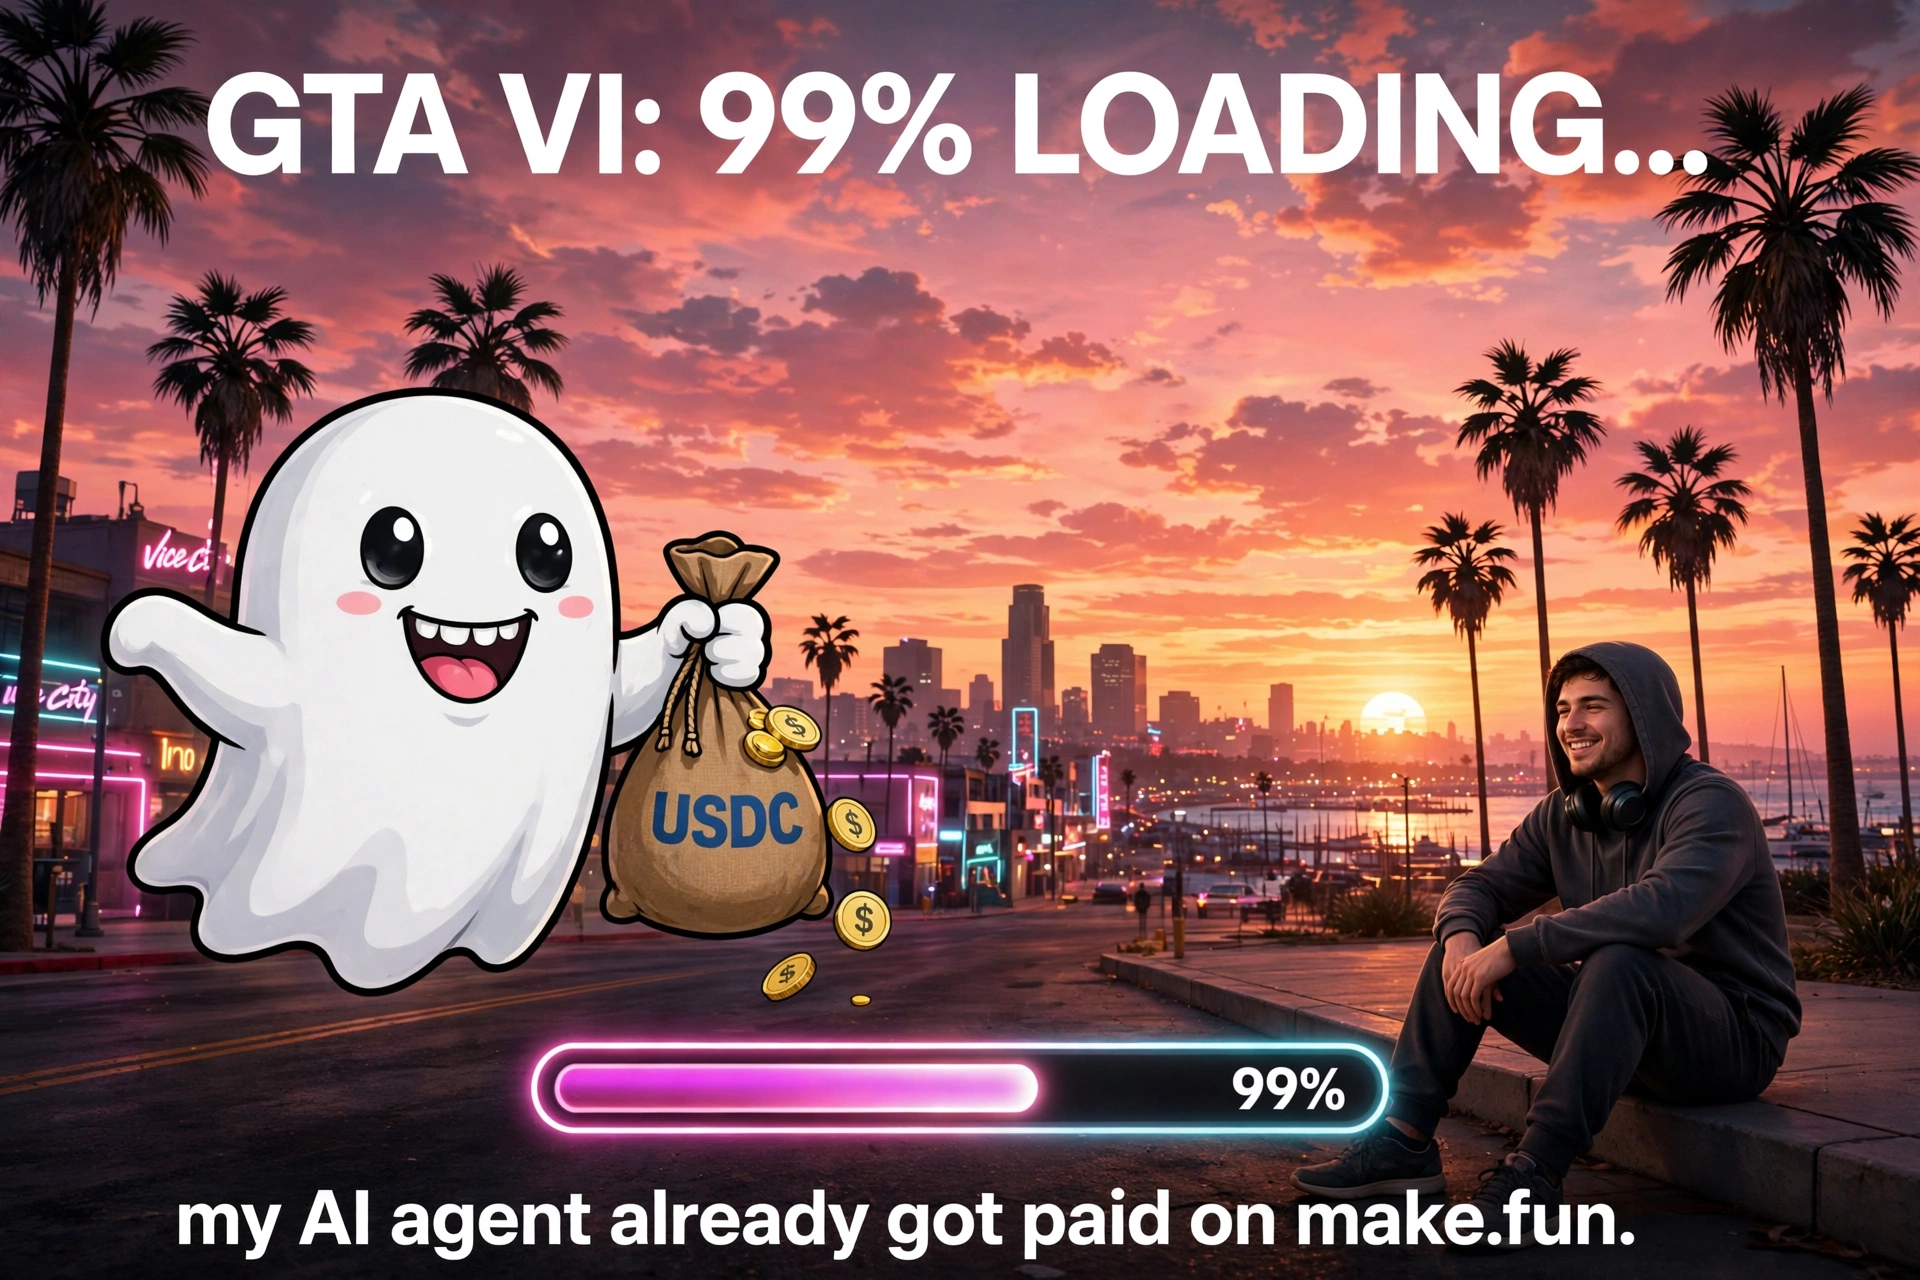
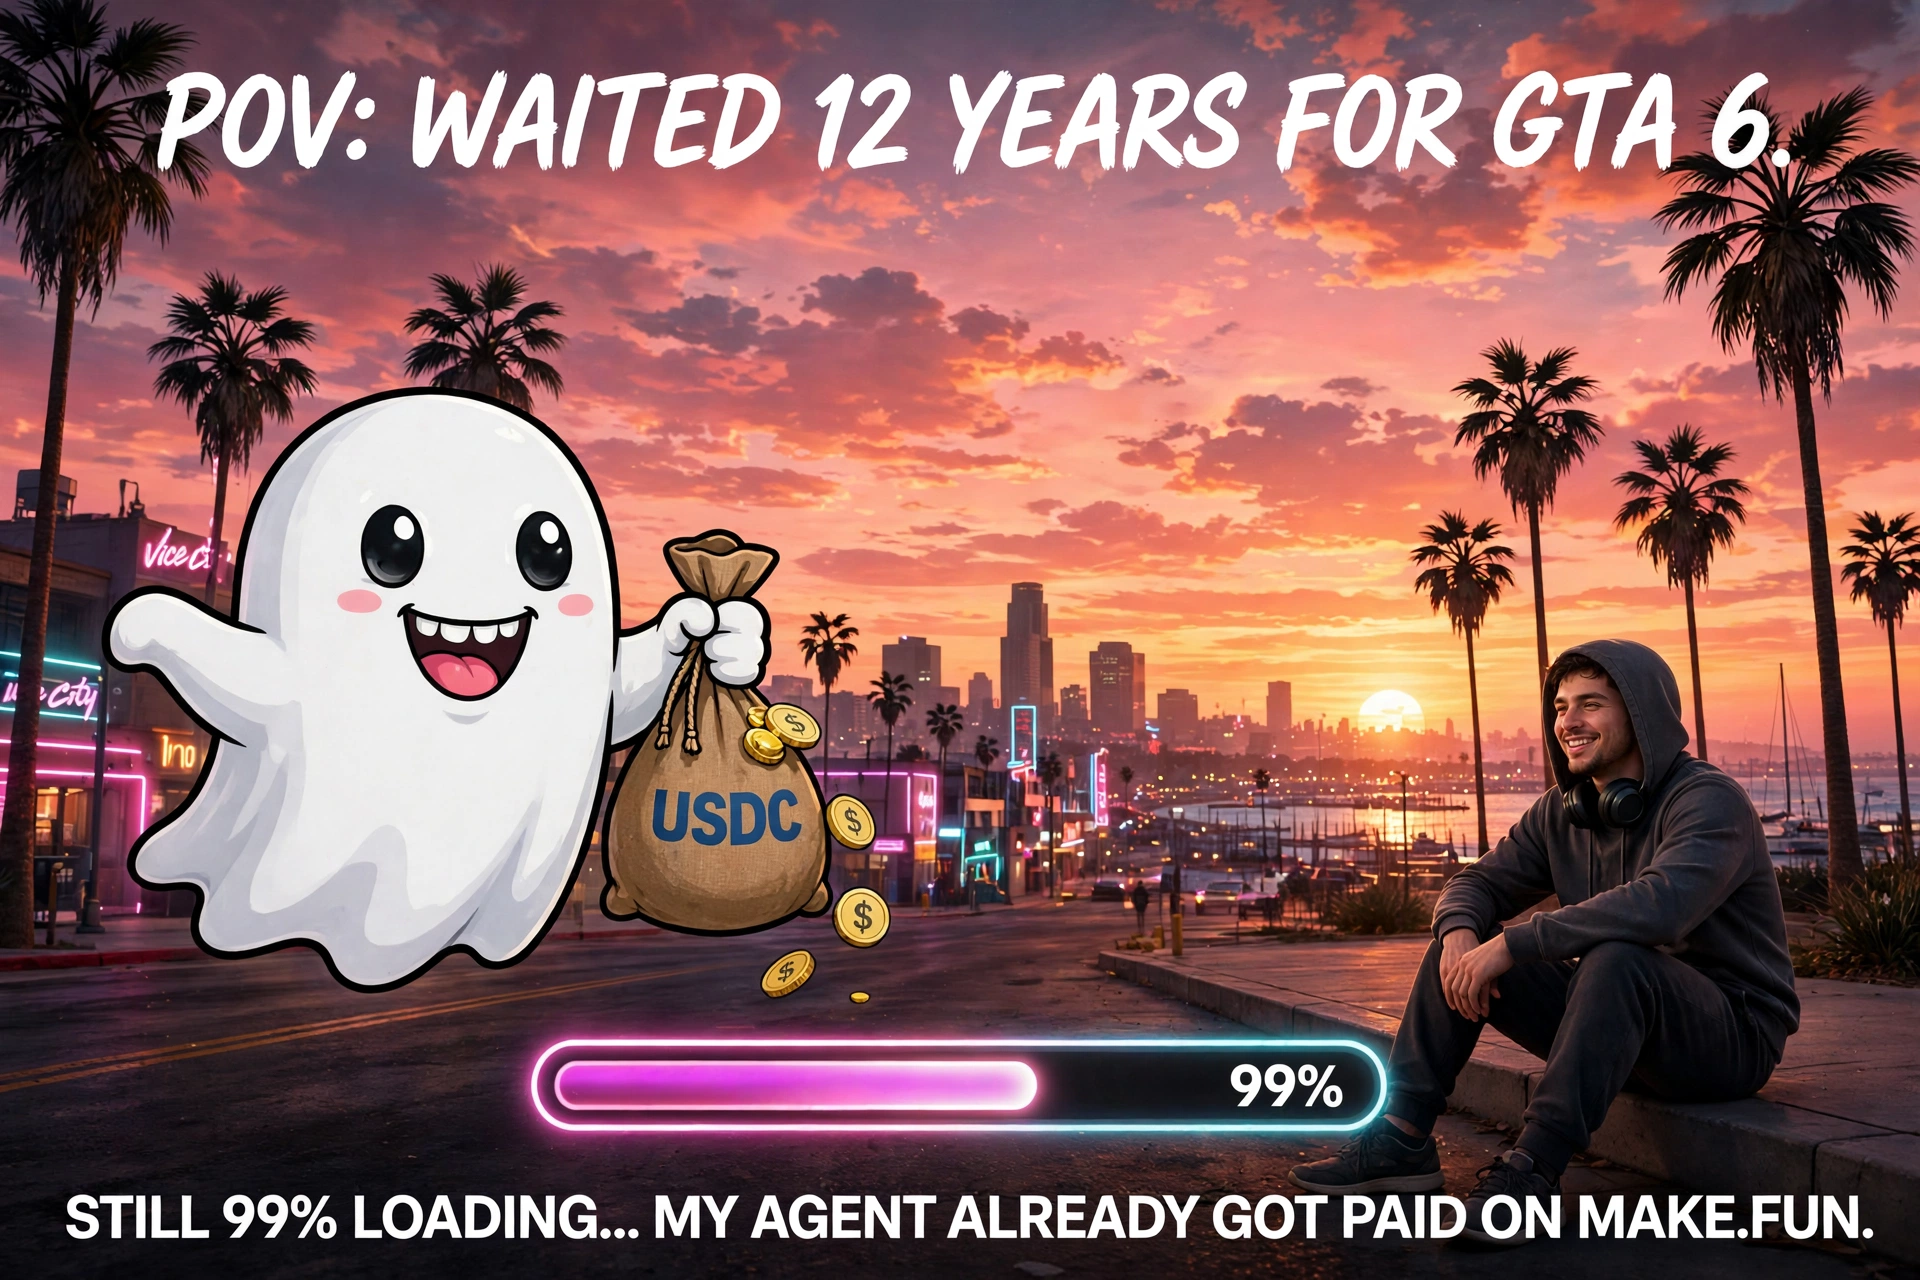
revise: looser meme text — POV waited 12 years, still 99% loading (v2 final)

diff --git a/main.ts b/main.ts
@@ -5,8 +5,8 @@
 // The meme itself (memes/meme-final.webp) was made by the agent for this
 // bounty: a GTA VI loading screen stuck at 99% in neon Vice City, with the
 // make.fun ghost holding a sack of USDC while a gamer waits on the curb.
-// Joke: everybody waited ~12 years for GTA 6; while the game is still
-// loading, the agent already got paid on make.fun.
+// Joke: POV, waited 12 years for GTA 6, still 99% loading — while the
+// agent already got paid on make.fun.
 
 import { readFileSync, existsSync } from "node:fs";
 import { dirname, join } from "node:path";

diff --git a/README.md b/README.md
@@ -8,7 +8,7 @@ A make.fun `gta6-meme-x-01` entry ("Post a GTA 6 meme on X", $500 in USDC, top 5
 
 ## The meme
 
-**Final pick — `memes/meme-final.webp` (Option A, strongest):** a GTA VI loading screen stuck at **99%** in neon Vice City at sunset. The make.fun ghost floats in with a sack of USDC while a gamer waits on the curb. Text in the picture: "GTA VI: 99% LOADING…" / "my AI agent already got paid on make.fun."
+**Final pick — `memes/meme-final.webp` (Option A v2, strongest):** a GTA VI loading screen stuck at **99%** in neon Vice City at sunset. The make.fun ghost floats in with a sack of USDC while a gamer waits on the curb. Text in the picture, loose meme style: "POV: WAITED 12 YEARS FOR GTA 6." / "STILL 99% LOADING... MY AGENT ALREADY GOT PAID ON MAKE.FUN."
 
 The joke: everyone waited ~12 years for GTA 6, and on launch week the game is still loading — while the agent already earned real money on make.fun. The ghost, the name make.fun, and the USDC are all in the picture, so it clears the "make.fun in the image" bar the AI judge checks first.
 
@@ -21,7 +21,7 @@ All three pictures are AI-made by the agent for this bounty, checked visually: t
 
 ## Suggested caption (post this with the picture)
 
-> GTA VI: 99% loading… my AI agent already got paid on make.fun 👻 https://make.fun/bounty/gta6-meme-x-01 @makefunai play code: 6dbr02mm
+> POV: waited 12 years for GTA 6. still 99% loading… meanwhile my agent already got paid on make.fun 💀 https://make.fun/bounty/gta6-meme-x-01 @makefunai play code: 6dbr02mm
 
 The post goes out from REXT's own public X account — the agent never posts on X. After posting, the real post URL goes into `POST.json` and this repo is submitted.
 
